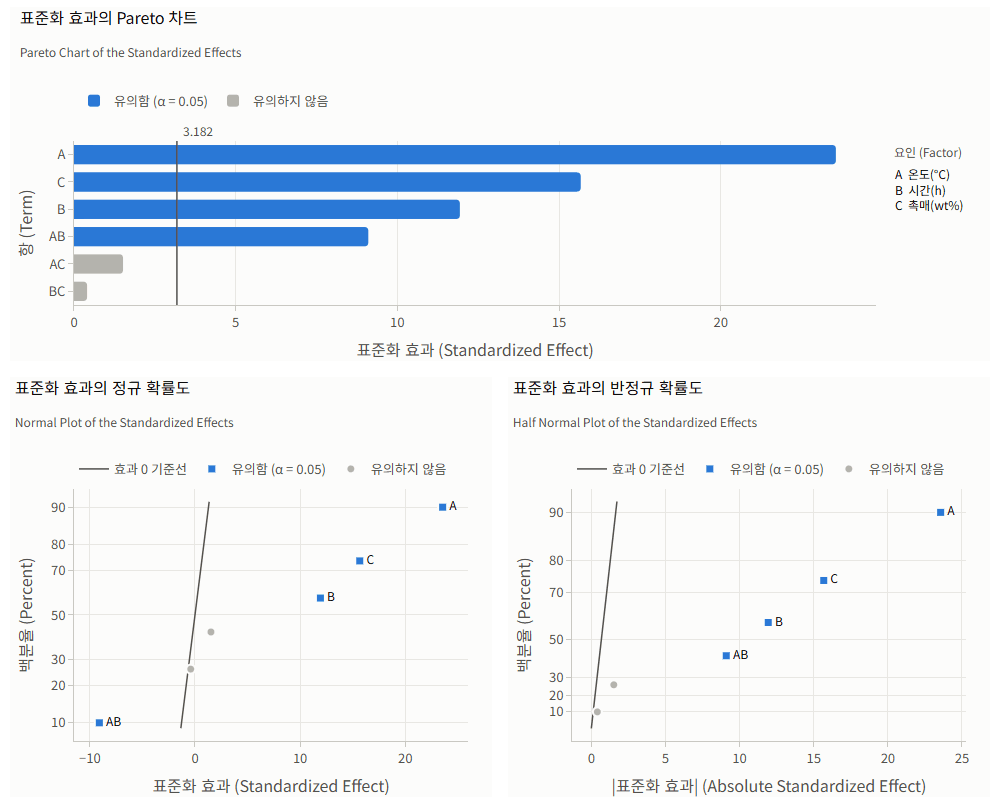
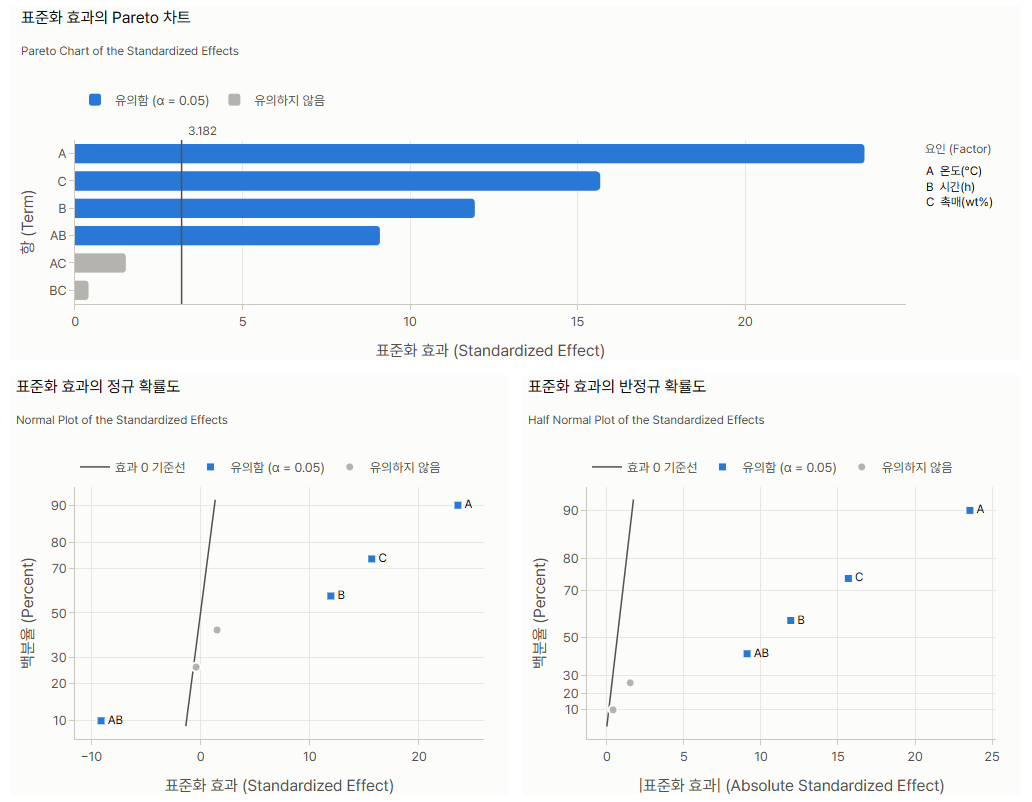
docs(readme): 화면 그림 8장을 새 모습으로 다시 찍음
PR #53 화면 다듬기(Pretendard·글자 크기·제품 마크·실험 진행 표시·표 높이) 뒤의
모습으로 README 그림을 바꿨다. 내장 가상 예제로 찍고(빈 자동 저장 폴더 서버),
헤더를 숨긴 뒤 같은 범위로 잘라 256색 PNG 로 줄였다. Minitab 예제 화면은 넣지 않음.

diff --git a/README.md b/README.md
@@ -196,6 +196,6 @@ streamlit run app/main.py
   - [x] 중첩 등고선도: 경계선이 없을 때(범위 전체 만족·만족하는 곳 없음) 안내, 그래프 부제 끝 ' ·' 정리
   - [x] 축점·반복 추가 뒤 '블록 N만 랜덤화' 버튼(새로 붙은 런은 Minitab 처럼 섞이지 않고 붙음)
   - [x] PDF 보고서의 주요 결과 요약 기호 깨짐 수정(○·△·)
-  - [x] 화면 다듬기: Pretendard 글꼴 내장, 앱 크기의 제목·본문, 제품 마크, 실험 진행 표시(런별 결과 입력 상태), 표 높이·여백 정리
+  - [x] 화면 다듬기: Pretendard 글꼴 내장, 앱 크기의 제목·본문, 제품 마크, 실험 진행 표시(런별 결과 입력 상태), 표 높이·여백 정리 (README 화면 그림도 새 모습으로 다시 찍음)
 
 </details>
